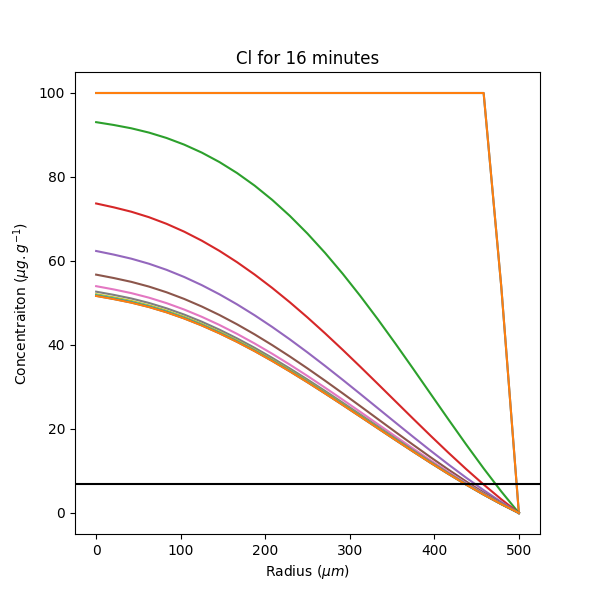
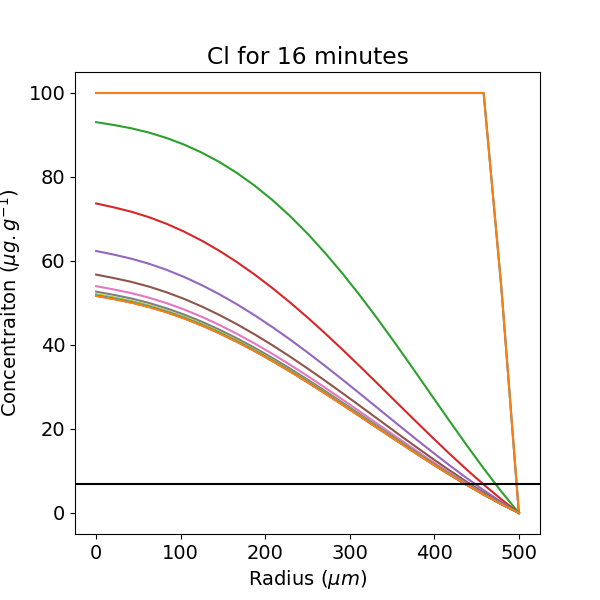
On branch main Your branch is up to date with 'origin/main'.
Changes to be committed:
	modified:   ClR_steps_25t_steps_1127.png
	modified:   ClR_steps_25t_steps_113.png
	modified:   ClR_steps_25t_steps_5633.png
	modified:   ClR_steps_25t_steps_564.png
	modified:   diffv3.1.py

diff --git a/diffv3.1.py b/diffv3.1.py
@@ -9,6 +9,7 @@ import pandas as pd
 import scipy.special as spec
 import scipy
 import matplotlib.pyplot as plt
+import matplotlib as mpl
 from scipy.optimize import bisect
 from sympy import Float
 from tqdm import tqdm
@@ -386,29 +387,30 @@ class StepDiffusion:
 # Ci1,factor1,fig1,ax1 = SD_constantT.runModel()
 
 ##################
-# SD_dt0 = StepDiffusion(t_max=5e3,t_steps='Auto',element='Cl',R_steps=25,R=500e-6,
-#                     sphericFactor=True,C0=100,Cout=0,plot=10,legend=False,
-#                     Tc=1500,delT=-500)
+mpl.rcParams.update({'font.size': 14})
+SD_dt0 = StepDiffusion(t_max=5e3,t_steps='Auto',element='Cl',R_steps=25,R=500e-6,
+                    sphericFactor=True,C0=100,Cout=0,plot=10,legend=True,
+                    Tc=1500,delT=-500)
 
-# Ci2,factor2,fig2,ax2 = SD_dt0.runModel()
+Ci2,factor2,fig2,ax2 = SD_dt0.runModel()
 
-# SD_dt1 = StepDiffusion(t_max=1e3,t_steps='Auto',element='Cl',R_steps=25,R=500e-6,
-#                     sphericFactor=True,C0=100,Cout=0,plot=10,legend=False,
-#                     Tc=1500,delT=-500)
+SD_dt1 = StepDiffusion(t_max=1e3,t_steps='Auto',element='Cl',R_steps=25,R=500e-6,
+                    sphericFactor=True,C0=100,Cout=0,plot=10,legend=False,
+                    Tc=1500,delT=-500)
 
-# Ci2,factor2,fig2,ax2 = SD_dt1.runModel()
+Ci2,factor2,fig2,ax2 = SD_dt1.runModel()
 
-# SD_dt2 = StepDiffusion(t_max=5e2,t_steps='Auto',element='Cl',R_steps=25,R=500e-6,
-#                     sphericFactor=True,C0=100,Cout=0,plot=10,legend=False,
-#                     Tc=1500,delT=-500)
+SD_dt2 = StepDiffusion(t_max=5e2,t_steps='Auto',element='Cl',R_steps=25,R=500e-6,
+                    sphericFactor=True,C0=100,Cout=0,plot=10,legend=True,
+                    Tc=1500,delT=-500)
 
-# Ci2,factor2,fig2,ax2 = SD_dt2.runModel()
+Ci2,factor2,fig2,ax2 = SD_dt2.runModel()
 
-# SD_dt3 = StepDiffusion(t_max=1e2,t_steps='Auto',element='Cl',R_steps=25,R=500e-6,
-#                     sphericFactor=True,C0=100,Cout=0,plot=10,legend=False,
-#                     Tc=1500,delT=-500)
+SD_dt3 = StepDiffusion(t_max=1e2,t_steps='Auto',element='Cl',R_steps=25,R=500e-6,
+                    sphericFactor=True,C0=100,Cout=0,plot=10,legend=True,
+                    Tc=1500,delT=-500)
 
-# Ci2,factor2,fig2,ax2 = SD_dt3.runModel()
+Ci2,factor2,fig2,ax2 = SD_dt3.runModel()
 
 #%% CoupledModel
 
